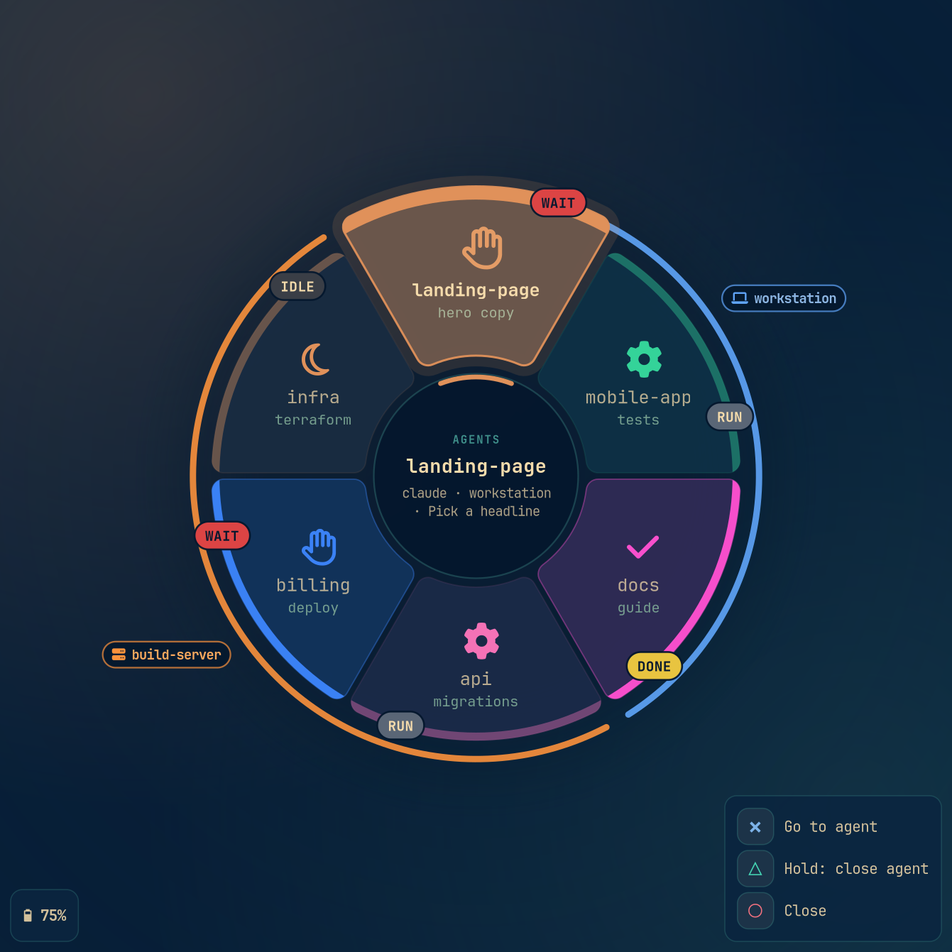
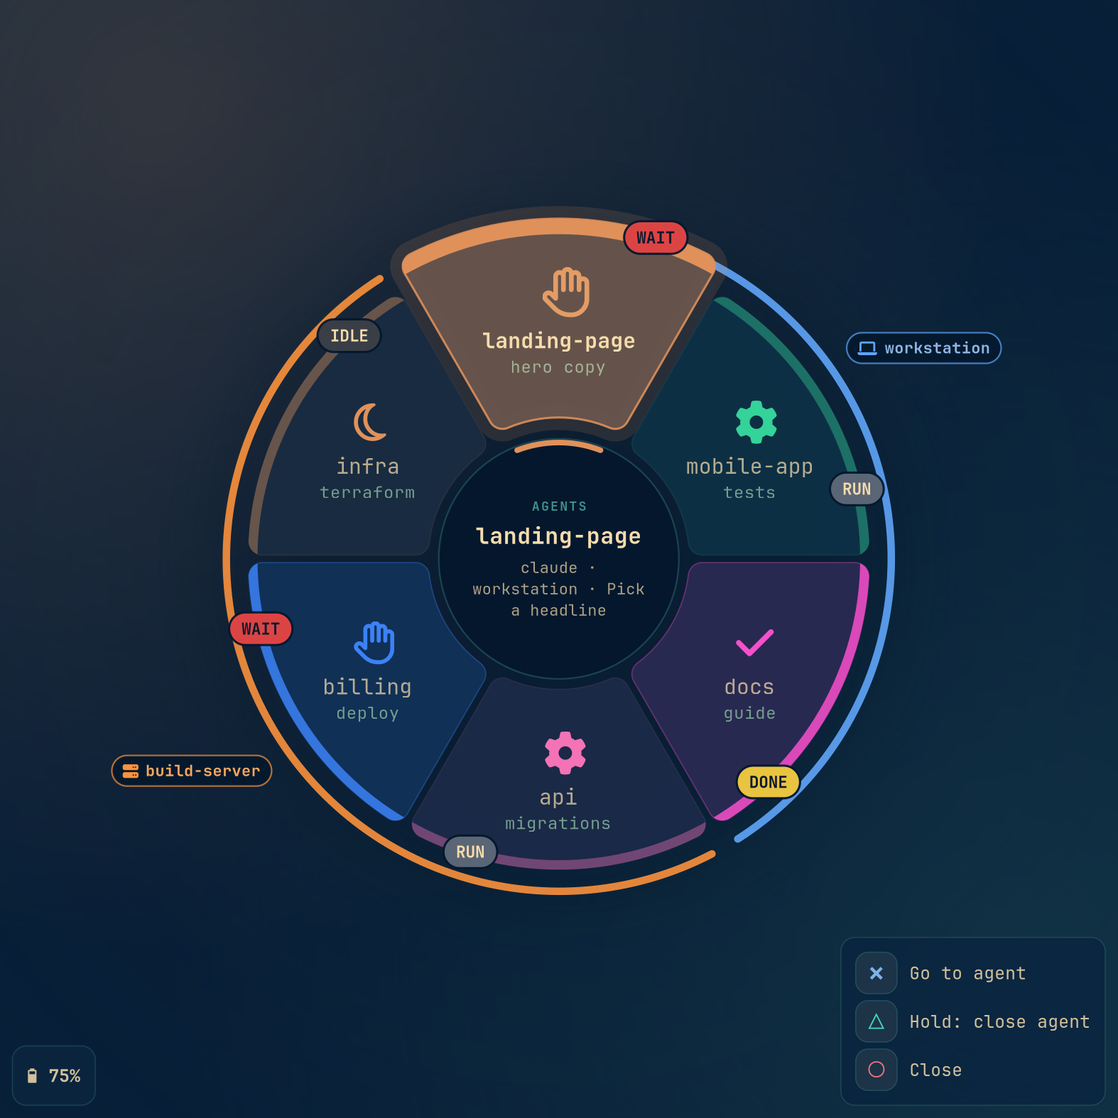
Settings ring grouped into submenus, bigger radials
Twelve slices made the PS One Shot ring crowded. It now keeps couch
mode, pause and the cheat sheet, and groups the rest into four
submenus that face each other:

- Sound: effects on/off, louder/quieter.
- Haptics: vibration on/off, adaptive triggers on/off, trigger click
  stronger/weaker.
- Sensitivity: the stick deadzone, a faster/slower pair for each stick
  mode in use, and the touchpad pointer speed (moved here from the top).
- Lightbar: unchanged.

The "triggers" and "sticks" sources become "haptics" and "sensitivity",
plus a new "sound"; menus.Hooks.submenus maps each to its App choices.
A choice that opens a submenu shows › in the hub, like configured ones.

Radials are about a sixth bigger (DIAMETER 0.46 → 0.54 of the shorter
monitor side), capped so the group labels beside the donut still fit.

diff --git a/ps_oneshot/app.py b/ps_oneshot/app.py
@@ -120,7 +120,10 @@ class App:
         self.menus = RadialMenus(cfg, RadialMenu(load_theme), self.herd, self.favorites, Hooks(
             run_action=self.actions.run, rumble=self.rumble, monitor=lambda: self.monitor,
             capture_sticks=self._sync_stick_capture, settings=self._settings_choices,
-            tuning={"lights": self._lights_choices, "triggers": self._triggers_choices, "sticks": self._sticks_choices},
+            submenus={
+                "sound": self._sound_choices, "haptics": self._haptics_choices,
+                "sensitivity": self._sensitivity_choices, "lights": self._lights_choices,
+            },
             window_class=lambda: self.window_class, paused=lambda: self.paused, battery=self._battery_level,
         ))
         self.carousel = AgentCarousel(cfg, Carousel(load_theme), self.herd, CarouselHooks(
@@ -857,30 +860,31 @@ class App:
         spawn(["notify-send", "-a", APP_NAME, "-t", "2500", message])
 
     def _settings_choices(self) -> list[Choice]:
-        """The "settings" radial source: PS One Shot's own switches. Ring order is clockwise from the top:
-        couch mode on top, toggles upper left/right, mouse speed and effects volume down on the left / up on
-        the right, the Triggers and Sticks submenus facing each other, then pause and the Lightbar submenu
-        either side of the cheat sheet at the bottom. Steppers show their level in the hub."""
-        speed = f"speed {self.cfg.raw['touchpad']['sensitivity']:.2f}"
-        volume = f"volume {self.cfg.get('sounds', 'volume'):.0%}"
+        """The "settings" radial source: PS One Shot's own switches, grouped. Clockwise from the top: couch
+        mode; the Sound and Haptics submenus facing each other up right and left, Lightbar and Sensitivity
+        below them; pause and the cheat sheet at the bottom. Submenus carry no state on their slices: going
+        back shows this ring as it was built."""
         couch = self.couch.active
         return [
             # Not keep_open: the screen rescales under the ring.
             Choice(label="Couch mode", icon="\U000f04b9", action="couch:toggle", active=couch,
                    sublabel="on" if couch else "off"),
-            Choice(label="Vibration", icon="\U000f0566" if self.rumble_on else "\U000f0cd9", action="rumble:toggle",
-                   sublabel="on" if self.rumble_on else "off", active=self.rumble_on, keep_open=True),
-            Choice(label="Mouse +", icon="\uf067", action="touchpad:faster", detail=speed, keep_open=True),
-            Choice(label="Effects +", icon="\U000f075d", action="sounds:louder", detail=volume, keep_open=True),
-            Choice(label="Triggers", icon="\uf05b", action="", source="triggers", detail="adaptive, click strength"),
+            Choice(label="Sound", icon="\uf028", action="", source="sound"),
+            Choice(label="Lightbar", icon="\U000f06e8", action="", source="lights"),
             Choice(label="Pause", icon="\uf04c", action="app:pause", detail="hold PS to resume"),
             Choice(label="Cheat sheet", icon="\uf11c", action="ui:cheatsheet"),
-            Choice(label="Lightbar", icon="\U000f06e8", action="", source="lights", detail="colours, alerts, glow"),
-            Choice(label="Sticks", icon="\uf047", action="", source="sticks", detail="deadzone, speeds"),
-            Choice(label="Effects −", icon="\U000f075e", action="sounds:quieter", detail=volume, keep_open=True),
-            Choice(label="Mouse −", icon="\uf068", action="touchpad:slower", detail=speed, keep_open=True),
+            Choice(label="Sensitivity", icon="\uf1de", action="", source="sensitivity"),
+            Choice(label="Haptics", icon="\U000f0566", action="", source="haptics"),
+        ]
+
+    def _sound_choices(self) -> list[Choice]:
+        """The "sound" radial source: effects on/off on top, volume up down right and down down left."""
+        volume = f"volume {self.cfg.get('sounds', 'volume'):.0%}"
+        return [
             Choice(label="Sounds", icon="\uf028" if self.sounds_on else "\uf026", action="sounds:toggle",
                    sublabel="on" if self.sounds_on else "off", active=self.sounds_on, keep_open=True),
+            Choice(label="Louder", icon="\U000f075d", action="sounds:louder", detail=volume, keep_open=True),
+            Choice(label="Quieter", icon="\U000f075e", action="sounds:quieter", detail=volume, keep_open=True),
         ]
 
     def _lights_choices(self) -> list[Choice]:
@@ -934,18 +938,21 @@ class App:
                 self._alert_preview_until = time.monotonic() + ALERT_PREVIEW_S
             self.refresh_lights()
 
-    def _triggers_choices(self) -> list[Choice]:
-        """The "triggers" radial source: adaptive on top, the click stronger down right, weaker down left.
-        The effect changes at once: pull a trigger in the ring to feel it (the ring ignores triggers)."""
+    def _haptics_choices(self) -> list[Choice]:
+        """The "haptics" radial source: vibration on top, adaptive triggers at the bottom, the trigger click
+        stronger on the right and weaker on the left. A trigger effect changes at once: pull the trigger in
+        the ring to feel it (rings ignore triggers)."""
         cfg = self.cfg.raw["triggers"]
         adaptive = bool(cfg["adaptive"])
         staged = [name.upper() for name in TRIGGERS if (b := self.cfg.layers["normal"].get(name)) and b.staged]
         where = f"on {' and '.join(staged)}" if staged else "(no trigger has two stages)"
         strength = f"click strength {cfg['click_strength']}/8" + (f" · pull {' or '.join(staged)}" if staged else "")
         return [
-            Choice(label="Adaptive", icon="\uf05b", action="triggers:adaptive", sublabel="on" if adaptive else "off",
-                   active=adaptive, keep_open=True, detail=f"resistance and click {where}"),
+            Choice(label="Vibration", icon="\U000f0566" if self.rumble_on else "\U000f0cd9", action="rumble:toggle",
+                   sublabel="on" if self.rumble_on else "off", active=self.rumble_on, keep_open=True),
             Choice(label="Stronger", icon="\uf067", action="triggers:stronger", detail=strength, keep_open=True),
+            Choice(label="Adaptive", icon="\uf05b", action="triggers:adaptive", sublabel="on" if adaptive else "off",
+                   active=adaptive, keep_open=True, detail=f"trigger resistance and click {where}"),
             Choice(label="Weaker", icon="\uf068", action="triggers:weaker", detail=strength, keep_open=True),
         ]
 
@@ -961,9 +968,10 @@ class App:
             for pad in self.pads.values():
                 self._apply_trigger_effects(pad, enabled=not self.paused)
 
-    def _sticks_choices(self) -> list[Choice]:
-        """The "sticks" radial source: the deadzone on top (✕ steps through its sizes), then a faster/slower
-        pair for each stick mode in use, faster on the right, slower mirrored on the left."""
+    def _sensitivity_choices(self) -> list[Choice]:
+        """The "sensitivity" radial source: the stick deadzone on top (✕ steps through its sizes), then a
+        faster/slower pair for each stick mode in use and for the touchpad, faster on the right, slower
+        mirrored on the left."""
         cfg, sticks = self.cfg.raw["input"], self.cfg.raw["sticks"]
 
         def which(mode: str) -> str:
@@ -973,21 +981,24 @@ class App:
         pairs = []
         if which("scroll"):
             detail = f"{which('scroll')} scrolls {sticks['scroll_speed']} notches/s"
-            pairs.append(("Scroll", "\uf0dc", "scroll", detail))
+            pairs.append(("Scroll", "\uf0dc", "sticks:scroll_faster", "sticks:scroll_slower", detail))
         if which("pointer"):
             detail = f"{which('pointer')} moves the pointer {sticks['pointer_speed']} px/s"
-            pairs.append(("Pointer", "\uf245", "pointer", detail))
+            pairs.append(("Pointer", "\uf245", "sticks:pointer_faster", "sticks:pointer_slower", detail))
         if which("buttons"):
             detail = f"{which('buttons')} arrows repeat every {cfg['repeat_interval_ms']} ms (held buttons too)"
-            pairs.append(("Arrows", "\uf0b2", "repeat", detail))
+            pairs.append(("Arrows", "\uf0b2", "sticks:repeat_faster", "sticks:repeat_slower", detail))
+        speed = self.cfg.raw["touchpad"]["sensitivity"]
+        pairs.append(("Touchpad", "\U000f0741", "touchpad:faster", "touchpad:slower",
+                      f"touchpad pointer speed {speed:.2f}"))
         deadzone = float(cfg["stick_deadzone"])
         return [
             Choice(label="Deadzone", icon="\uf192", action="sticks:deadzone", sublabel=f"{deadzone:.0%}",
                    keep_open=True, detail="✕ next size · bigger ignores a drifting stick"),
-            *(Choice(label=f"{label} +", icon=icon, action=f"sticks:{arg}_faster", detail=detail, keep_open=True)
-              for label, icon, arg, detail in pairs),
-            *(Choice(label=f"{label} −", icon=icon, action=f"sticks:{arg}_slower", detail=detail, keep_open=True)
-              for label, icon, arg, detail in reversed(pairs)),
+            *(Choice(label=f"{label} +", icon=icon, action=faster, detail=detail, keep_open=True)
+              for label, icon, faster, _slower, detail in pairs),
+            *(Choice(label=f"{label} −", icon=icon, action=slower, detail=detail, keep_open=True)
+              for label, icon, _faster, slower, detail in reversed(pairs)),
         ]
 
     def _sticks_action(self, arg: str) -> None:

diff --git a/ps_oneshot/menus.py b/ps_oneshot/menus.py
@@ -59,7 +59,7 @@ class Hooks:
     monitor: Callable[[], str | None]
     capture_sticks: Callable[[bool], None]
     settings: Callable[[], list[Choice]]  # the app's own toggles for the "settings" source
-    tuning: dict[str, Callable[[], list[Choice]]]  # the settings submenus' sources: lights, triggers, sticks
+    submenus: dict[str, Callable[[], list[Choice]]]  # the settings ring's submenus by source: sound, haptics…
     window_class: Callable[[], str]  # the focused window's, for pinning it as a favorite
     paused: Callable[[], bool]
     battery: Callable[[], tuple[int, bool] | None]  # (percent, charging) of the controller, for the overlay's corner
@@ -177,8 +177,8 @@ class RadialMenus:
             return title, self._choice_slices(choices[:MAX_SLICES])
         if source == "settings":
             return title, self._choice_slices(self.hooks.settings()[:MAX_SLICES])
-        if source in self.hooks.tuning:
-            return title, self._choice_slices(self.hooks.tuning[source]()[:MAX_SLICES])
+        if source in self.hooks.submenus:
+            return title, self._choice_slices(self.hooks.submenus[source]()[:MAX_SLICES])
         if source == "favorites":
             return title, self._favorite_slices()
         raise ValueError(f"unknown radial source {source!r}")
@@ -198,7 +198,10 @@ class RadialMenus:
     def _choice_slices(choices: list[Choice]) -> list[Slice]:
         return [
             Slice(
-                item=RadialItem(label=c.label, icon=c.icon, sublabel=c.sublabel, detail=c.detail, active=c.active),
+                item=RadialItem(
+                    label=c.label, icon=c.icon, sublabel=c.sublabel, active=c.active,
+                    detail=c.detail or ("›" if c.source else ""),  # a submenu, as configured ones show it
+                ),
                 action=c.action,
                 source=c.source or None,
                 keep_open=c.keep_open,

diff --git a/ps_oneshot/ui/radial.py b/ps_oneshot/ui/radial.py
@@ -32,7 +32,7 @@ MAX_ITEMS = 12
 PULSE_PERIOD = 1.9  # seconds per breath
 PULSE_FRAME_MS = 40
 POP_TIME = 0.05  # selection pop time constant, seconds
-DIAMETER = 0.46  # of the shorter monitor side
+DIAMETER = 0.54  # of the shorter monitor side, as long as the group labels beside it still fit
 TAU = 2 * math.pi
 # Group arcs, in units of the donut radius: centre line just outside the rim, then the labels.
 GROUP_ARC_RADIUS = 1.07
@@ -278,12 +278,13 @@ class RadialMenu(Overlay):
         return busy or self._hold is not None  # the hold ring fills frame by frame
 
     def _content_size(self, monitor_width: int, monitor_height: int) -> tuple[float, float]:
-        radius = DIAMETER * min(monitor_width, monitor_height) / 2
+        # Room for the selection pop, badges, group arcs and their labels beside the donut.
+        reach = GROUP_ARC_RADIUS + GROUP_ARC_WIDTH + GROUP_LABEL_GAP + GROUP_LABEL_MAX_WIDTH + 0.05
+        shorter = min(monitor_width, monitor_height)
+        radius = min(DIAMETER * shorter / 2, shorter / (2 * reach))
         if radius != self._radius:
             self._image_surfaces.clear()
         self._radius = radius
-        # Room for the selection pop, badges, group arcs and their labels beside the donut.
-        reach = GROUP_ARC_RADIUS + GROUP_ARC_WIDTH + GROUP_LABEL_GAP + GROUP_LABEL_MAX_WIDTH + 0.05
         side = self._radius * 2 * reach
         return side, side
 

diff --git a/ps_oneshot/labels.py b/ps_oneshot/labels.py
@@ -20,11 +20,11 @@ SOURCE_TEXT = {
     "herd": "Agents grouped by machine; ✕ goes to one",
     "audio": "Outputs and inputs; ✕ makes one the default",
     "voxtype-language": "Dictation language; the current one ✓",
-    "settings": "Couch mode · Sounds · Effects +/− · Vibration · Mouse +/− · Triggers › · Sticks › · Lightbar › · "
-                "Cheat sheet · Pause",
+    "settings": "Couch mode · Sound › · Haptics › · Sensitivity › · Lightbar › · Cheat sheet · Pause",
+    "sound": "Sound effects on/off · Volume +/−",
+    "haptics": "Vibration on/off · Adaptive triggers on/off · Trigger click +/−",
+    "sensitivity": "Stick deadzone · Scroll, pointer, stick arrow and touchpad speed +/−",
     "lights": "Lightbar colours · Alert style · Brightness +/− · Idle glow +/− · Running light",
-    "triggers": "Adaptive triggers on/off · Click strength +/−",
-    "sticks": "Deadzone · Scroll, pointer or arrow speed +/− for the stick modes in use",
     "favorites": "Your apps; change them right in the ring (see In a radial)",
 }
 # Rows follow the controller: shoulders and D-pad, sticks and touchpad, face buttons, triggers, the rest.

diff --git a/tests/test_ui_math.py b/tests/test_ui_math.py
@@ -320,7 +320,7 @@ class ChoiceSubmenuTest(unittest.TestCase):
             Choice(label="Lightbar", action="", source="lights"),
             Choice(label="Sounds", action="sounds:toggle", keep_open=True),
         ])
-        self.assertEqual((lightbar.source, lightbar.action), ("lights", ""))
+        self.assertEqual((lightbar.source, lightbar.action, lightbar.item.detail), ("lights", "", "›"))
         self.assertEqual((toggle.source, toggle.action, toggle.keep_open), (None, "sounds:toggle", True))
 
     def test_a_ring_can_use_the_lights_source(self) -> None:

diff --git a/ps_oneshot/config.py b/ps_oneshot/config.py
@@ -19,7 +19,7 @@ BUTTONS = (
 )
 TRIGGERS = ("l2", "r2")
 STICK_MODES = ("none", "scroll", "pointer", "buttons")
-SOURCES = ("herd", "audio", "voxtype-language", "settings", "lights", "triggers", "sticks", "favorites")
+SOURCES = ("herd", "audio", "voxtype-language", "settings", "sound", "haptics", "sensitivity", "lights", "favorites")
 ACTION_KINDS = {
     "wm", "dispatch", "exec", "key", "radial", "herd", "ui", "app", "dictation", "sounds", "rumble", "agent", "touchpad",
     "zoom", "text", "couch", "brightness", "launch", "lights", "triggers", "sticks",

diff --git a/AGENTS.md b/AGENTS.md
@@ -40,11 +40,11 @@ PS One Shot turns a Sony DualSense into a controller for Hyprland, with an Omarc
   - `dictation.CaptureWatcher`: VoxType `post_process` tee file → `DictationLog`, used for L2 undo.
   - VoxType state file: an R2 "shot" presses Enter only once it reads `idle`.
 - **Outputs**
-  - `lights.LightEngine.frame` drives the sysfs LED-class lightbar and player LEDs, plus evdev FF rumble. Idle and working show the theme accent (`App._accent_rgb`, re-read on `omarchy theme set` through `ui.theme.watch_theme`); a blocked/done alert alternates its colour with the kind colour of the agent PS jumps to (`LightInputs.alert_rgb`, `alert_style = "alternate"`), or goes dark when their hues are too close (`lights.look_alike`). Colours from screen palettes (accent, agent kinds) go through `lights.vivid` (hue at full saturation and value, `[lights] vivid`); configured colours go out as written. Player LEDs: the waiting count from the centre, or `scanner_mask` (one LED bouncing, one sweep per `BREATH_PERIOD_S`) while agents work and none waits. They are on/off only (`max_brightness` 1). The Lightbar ring (`lights:` actions, `App._lights_action`) steps `[lights]` live; picking an alert style plays it for `ALERT_PREVIEW_S` (`App._alert_preview_until`). The Triggers ring (`triggers:`) re-sends the trigger effects after each step; triggers are ignored while a ring is open, so a pull there just feels the click. `App.refresh_lights` holds the LED writes while `Controller.rumbling` (they would stop our rumble, see the HID invariant) and keeps ticking until it's over.
+  - `lights.LightEngine.frame` drives the sysfs LED-class lightbar and player LEDs, plus evdev FF rumble. Idle and working show the theme accent (`App._accent_rgb`, re-read on `omarchy theme set` through `ui.theme.watch_theme`); a blocked/done alert alternates its colour with the kind colour of the agent PS jumps to (`LightInputs.alert_rgb`, `alert_style = "alternate"`), or goes dark when their hues are too close (`lights.look_alike`). Colours from screen palettes (accent, agent kinds) go through `lights.vivid` (hue at full saturation and value, `[lights] vivid`); configured colours go out as written. Player LEDs: the waiting count from the centre, or `scanner_mask` (one LED bouncing, one sweep per `BREATH_PERIOD_S`) while agents work and none waits. They are on/off only (`max_brightness` 1). The Lightbar ring (`lights:` actions, `App._lights_action`) steps `[lights]` live; picking an alert style plays it for `ALERT_PREVIEW_S` (`App._alert_preview_until`). The Haptics ring's `triggers:` actions re-send the trigger effects after each step; triggers are ignored while a ring is open, so a pull there just feels the click. `App.refresh_lights` holds the LED writes while `Controller.rumbling` (they would stop our rumble, see the HID invariant) and keeps ticking until it's over.
   - Trigger effects and the mic mute (LED + the built-in mic's hardware mute, `power_save_control`) go out as hidraw output reports (`dualsense.build_output_report`). The kernel toggles that mute on every mic-button press; `App._sync_mic_mute` puts it back to the system mic state.
   - Overlays: `ui.radial.RadialMenu`, `ui.carousel.Carousel` and `ui.cheatsheet.CheatSheet`. They open with their own animation: Hyprland's layer animation is off for the `ps-oneshot` namespace (`Hyprland.no_layer_animation`, set at startup and again on `configreloaded`, which drops the rule).
   - Sounds: `App._play_sound`. Wired, `sounds.play` runs `pw-play` (to the controller's sound card when it has one). Over Bluetooth, `sounds.BluetoothSpeaker`: samples at 45 kHz (`dualsense.BT_AUDIO_RATE`), Opus CBR frames of 200 bytes via `linux.opus` (ctypes libopus, optional), cached per sound and volume; a worker thread sends a speaker-routing 0x31 (`build_output_report(speaker=…, keep_rumble=True)`), then one `build_audio_report` (0x36) every 512/48000 s. A newer sound cuts off the playing one. `[sounds] volume` steps at runtime with `sounds:louder|quieter` (Effects +/− in the settings ring, whose hub shows the level through `Choice.detail`).
-- **Radial menus:** `menus.RadialMenus` owns the view stack and calls back through `menus.Hooks`. Its live sources are `herd`, `audio`, `voxtype-language`, `settings`, `lights`, `triggers`, `sticks` and `favorites`. A `sources.Choice` with a `source` opens that source as a submenu: the settings ring's Lightbar, Triggers and Sticks open `lights`, `triggers` and `sticks` (`menus.Hooks.tuning` → `App._lights_choices`, `_triggers_choices`, `_sticks_choices`). Every selection change goes through `RadialMenus._sync`, which also sends `_legend` (what each button does on the selected slice) to the overlay's bottom-right panel (`RadialMenu.set_legend`). Every `_show` also sends `Hooks.battery` (`App._battery_level`: the emptiest pad's percent and charging) to the bottom-left panel (`RadialMenu.set_battery`).
+- **Radial menus:** `menus.RadialMenus` owns the view stack and calls back through `menus.Hooks`. Its live sources are `herd`, `audio`, `voxtype-language`, `settings`, `sound`, `haptics`, `sensitivity`, `lights` and `favorites`. A `sources.Choice` with a `source` opens that source as a submenu (its hub line shows ›): the settings ring keeps only couch mode, pause, the cheat sheet and its Sound, Haptics, Sensitivity and Lightbar submenus (`menus.Hooks.submenus` → `App._sound_choices`, `_haptics_choices`, `_sensitivity_choices`, `_lights_choices`). Going back (○) shows a parent ring as it was built, so submenu slices carry no state. Every selection change goes through `RadialMenus._sync`, which also sends `_legend` (what each button does on the selected slice) to the overlay's bottom-right panel (`RadialMenu.set_legend`). Every `_show` also sends `Hooks.battery` (`App._battery_level`: the emptiest pad's percent and charging) to the bottom-left panel (`RadialMenu.set_battery`). Its size is `ui.radial.DIAMETER` of the shorter monitor side, capped in `RadialMenu._content_size` so the group labels beside the donut still fit on screen.
 - **Favorites** (`favorites.Favorites`): slots saved as state key `favorites` (entries shaped like config items, `None` = empty), seeded from `[favorites] items` until the first edit. In an open ring, a favorites slice (`Slice.favorite` = slot index) takes:
   - □ and △ only as holds of `input.hold_ms` (`_start_hold`, which asks `_hold_plan` what the button does on that slice; agent slices take △ = close too): □ pins the focused window's app (`Favorites.candidate`, looked up when the ring is built), △ empties the slot. Meanwhile `RadialMenu.set_hold` shows what's about to happen in the hub and fills a ring in the button's colour. Release (`on_release`), another button or a selection change cancels.
   - L1/R1 move the slot.
@@ -111,7 +111,7 @@ systemctl --user restart ps-oneshot && journalctl --user -u ps-oneshot -f
   - Anything that shows overlays calls `preload.ensure_layer_shell_preload()` first. It re-execs with `LD_PRELOAD=libgtk4-layer-shell.so`.
 - **State**
   - Config is data (`Config.raw` plus parsed `layers`, `modifiers`, `radials`).
-  - Runtime toggles persist in `$XDG_STATE_HOME/ps-oneshot/state.json` via `sounds.load_state` / `sounds.save_state` (keys `sounds`, `sounds_volume`, `rumble`, `touchpad_sensitivity`, `couch`, `couch_bar`, `favorites`, and `tuning`: {"section.key": value} for the `tuning.TUNABLES` changed in the Lightbar/Triggers/Sticks rings, put back over the config by `tuning.restore`; `App._tune` steps and saves one). They override the config at startup.
+  - Runtime toggles persist in `$XDG_STATE_HOME/ps-oneshot/state.json` via `sounds.load_state` / `sounds.save_state` (keys `sounds`, `sounds_volume`, `rumble`, `touchpad_sensitivity`, `couch`, `couch_bar`, `favorites`, and `tuning`: {"section.key": value} for the `tuning.TUNABLES` changed in the settings submenus, put back over the config by `tuning.restore`; `App._tune` steps and saves one). They override the config at startup.
 - **Config placement**
   - Generic Hyprland defaults go in `defaults/base.toml`. Anything calling `omarchy-*`, `omarchy-shell` or VoxType goes in `defaults/omarchy.toml`.
   - Tables merge and lists replace, so overriding `radial.apps.items` replaces the whole ring.

diff --git a/README.md b/README.md
@@ -66,7 +66,7 @@ L3 opens your favorites, R3 opens agents, holding the mic button opens voice. Pi
 
   <img src="docs/images/carousel.png" alt="The agents carousel: the selected agent's card in the middle, skewed strips with each agent's icon and project to both sides, and a row of status dots underneath">
 - **Voice** (hold the mic button) puts the dictation languages straight on the ring (the current one checked) plus a Devices submenu with every output and input; picking a device makes it the default and moves playing streams.
-- **PS One Shot** (L3) holds the app's own switches: couch mode, sound effects and vibration on/off (icon, ✓ and on/off show the current state), the effects volume and the touchpad pointer speed (Effects +/−, Mouse +/−; the level shows in the middle of the ring), the cheat sheet and pause, plus three submenus. **Lightbar**: colours vivid or as the theme has them, the alert style (✕ steps through alternate, blink and breathe and plays it on the lightbar), brightness and idle glow +/−, and the running light on/off. **Triggers**: adaptive triggers on/off and the click's strength +/− (pull the trigger while the ring is open to feel it; the ring ignores triggers). **Sticks**: the deadzone (✕ steps through its sizes) and a faster/slower pair for each stick mode in use: scroll speed, pointer speed, or how fast a stick's arrows repeat. Sounds, vibration, the steppers and the submenus' settings keep the ring open for another press and are remembered across restarts. Vibration off silences every rumble and the shot's trigger kick; the triggers' resistance stays.
+- **PS One Shot** (L3) holds the app's own switches: couch mode, pause and the cheat sheet, and four submenus (icon, ✓ and on/off show each switch's state; a stepper's level shows in the middle of the ring). **Sound**: effects on/off, volume +/−. **Haptics**: vibration on/off, adaptive triggers on/off and the trigger click's strength +/− (pull the trigger while the ring is open to feel it; rings ignore triggers). **Sensitivity**: the stick deadzone (✕ steps through its sizes) and a faster/slower pair for each stick mode in use (scroll speed, pointer speed, how fast a stick's arrows repeat) and for the touchpad pointer. **Lightbar**: colours vivid or as the theme has them, the alert style (✕ steps through alternate, blink and breathe and plays it on the lightbar), brightness and idle glow +/−, and the running light on/off. Switches and steppers keep the ring open for another press and are remembered across restarts. Vibration off silences every rumble and the shot's trigger kick; the triggers' resistance stays.
 
 <br clear="right">
 
